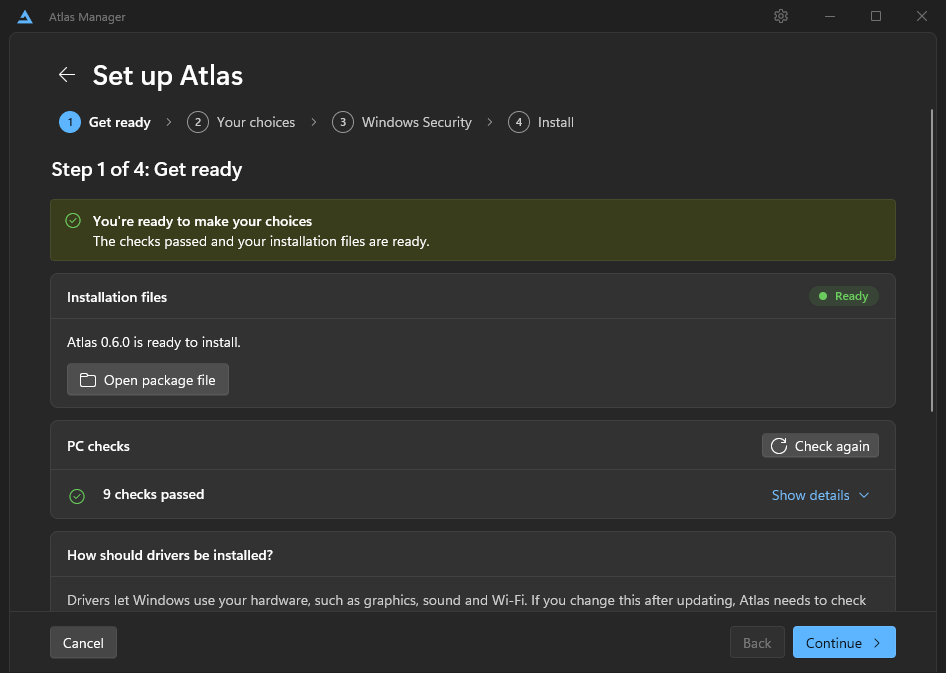
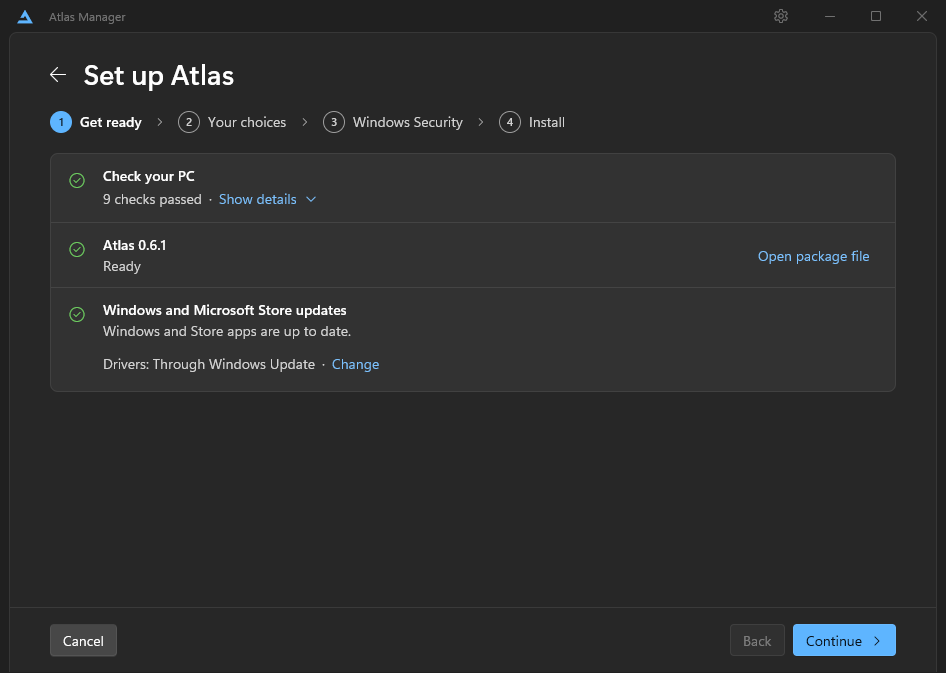
docs: show the automated Get ready in the READMEs

diff --git a/app/README.md b/app/README.md
@@ -5,7 +5,7 @@ This guide is for contributors who build, test or review it; user documentation 
 
 <picture>
   <source media="(prefers-color-scheme: dark)" srcset="../docs/images/atlas-manager-get-ready-dark.png">
-  <img src="../docs/images/atlas-manager-get-ready-light.png" alt="Atlas Manager's Get ready step, with the PC checks passed and the installation files ready" width="720">
+  <img src="../docs/images/atlas-manager-get-ready-light.png" alt="Atlas Manager's Get ready step, with the PC checks passed, the Atlas package ready and Windows up to date" width="720">
 </picture>
 
 ## Requirements
@@ -59,7 +59,7 @@ The script writes `target/x86_64-pc-windows-msvc/release/AtlasManager.exe`.
   Home shows the installed version and checks GitHub for newer releases.
   The install has four steps, **Get ready**, **Your choices**, **Windows Security** and **Install**, and ends by running the front door, `Entry\Install-Atlas.ps1`, the script in the Atlas package that installs Atlas.
 - **Creates media.**
-  Home recommends **Create an Atlas ISO** for a first install. It builds Windows 11 installation media that applies Atlas after Windows setup, and can write it to a USB drive.
+  Home offers **Create an Atlas ISO**, and recommends it where Windows on the PC has been in use. It builds Windows 11 installation media that applies Atlas after Windows setup, and can write it to a USB drive.
 - **Helps with problems.**
   **Export diagnostics** saves a ZIP for a bug report, and **Send a report** sends a message privately to the Atlas team.
 

diff --git a/README.md b/README.md
@@ -23,15 +23,15 @@
 <p align="center">
   <picture>
     <source media="(prefers-color-scheme: dark)" srcset="docs/images/atlas-manager-get-ready-dark.png">
-    <img src="docs/images/atlas-manager-get-ready-light.png" alt="Atlas Manager's Get ready step, with the PC checks passed and the installation files ready" width="720">
+    <img src="docs/images/atlas-manager-get-ready-light.png" alt="Atlas Manager's Get ready step, with the PC checks passed, the Atlas package ready and Windows up to date" width="720">
   </picture>
 </p>
 
 ## Install Atlas
 
 1. Download `AtlasManager.exe` from the [latest release](https://github.com/Atlas-OS/Atlas/releases/latest).
-2. For a first install, choose **Create an Atlas ISO**. Select an original Windows 11 ISO from Microsoft and choose your driver settings.
-3. Back up your files and reinstall Windows using the media you created. After sign-in, Atlas Manager guides you through updates and installing Atlas.
+2. For a first install, choose **Create an Atlas ISO**. Atlas Manager downloads Windows 11 from Microsoft, or uses an original Windows 11 ISO you already have.
+3. Back up your files and reinstall Windows using the media you created. After sign-in, Atlas Manager updates Windows, asks a few questions and installs Atlas.
 
 Atlas needs a supported edition and release of Windows 11.
 Check the [requirements](https://atlasos.net/docs/install/requirements/) and the [supported Windows releases](docs/windows-release-policy.md#supported-releases) before you start.
